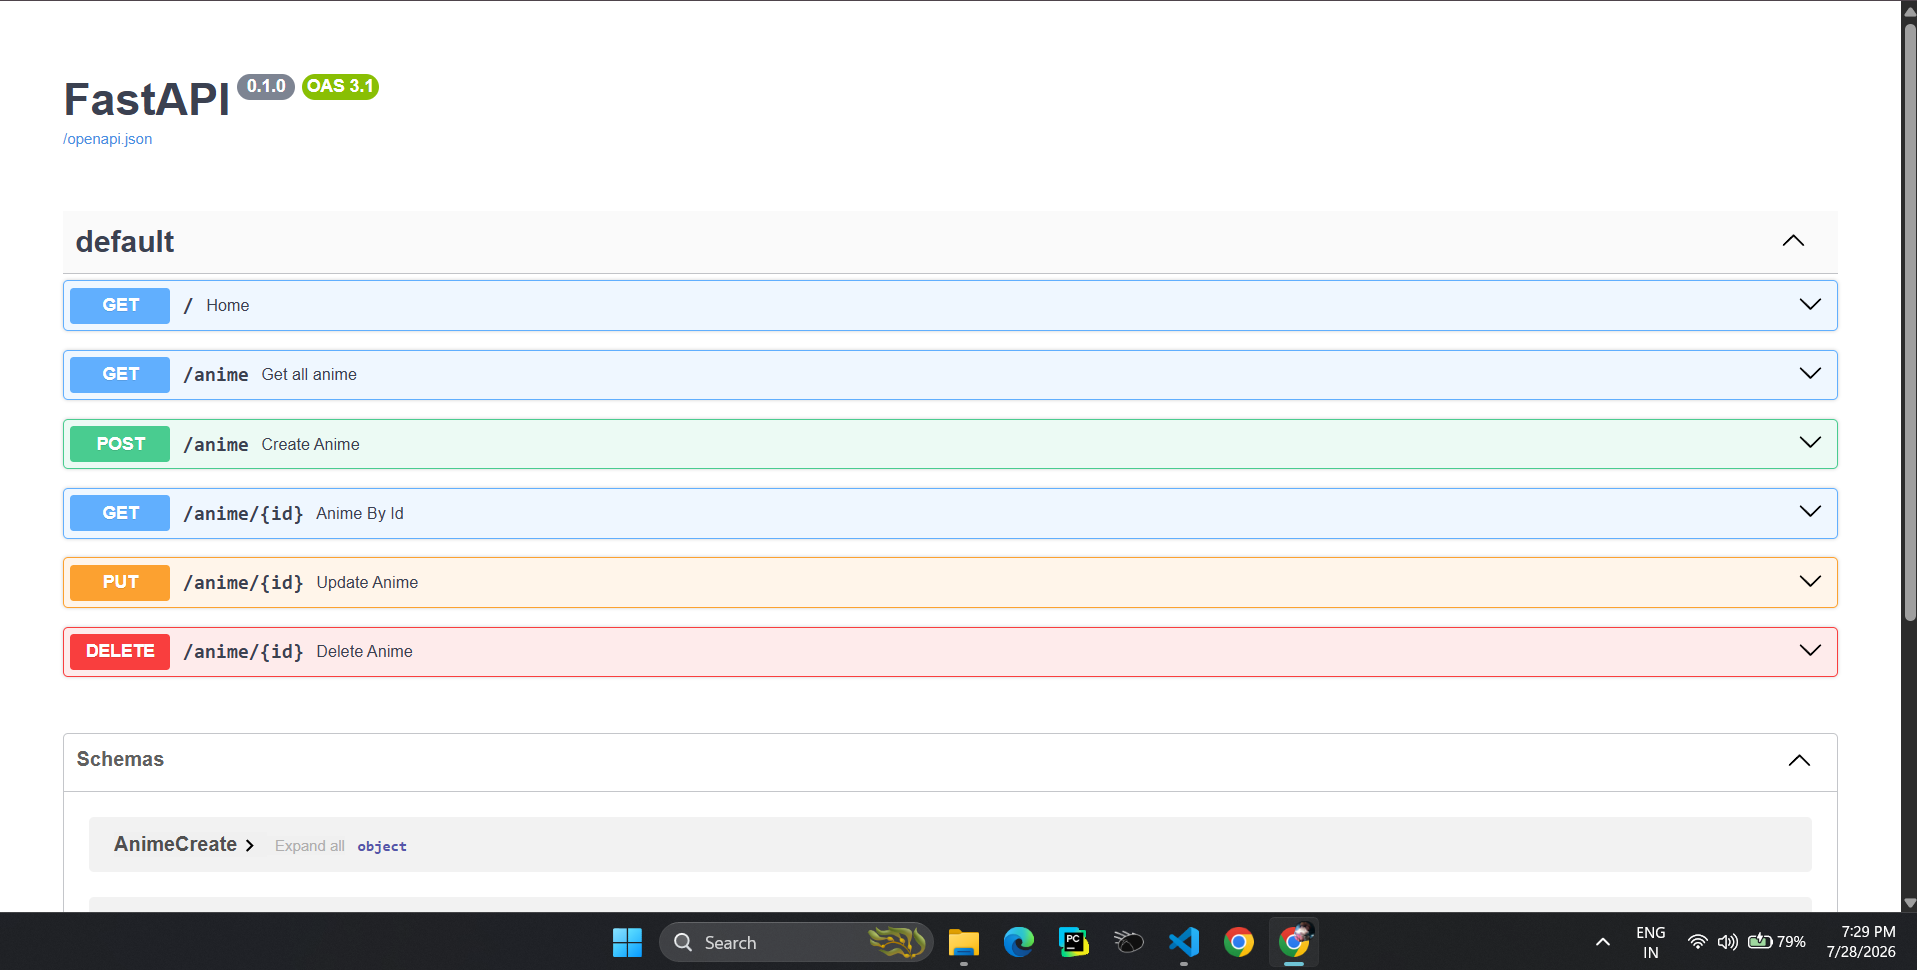
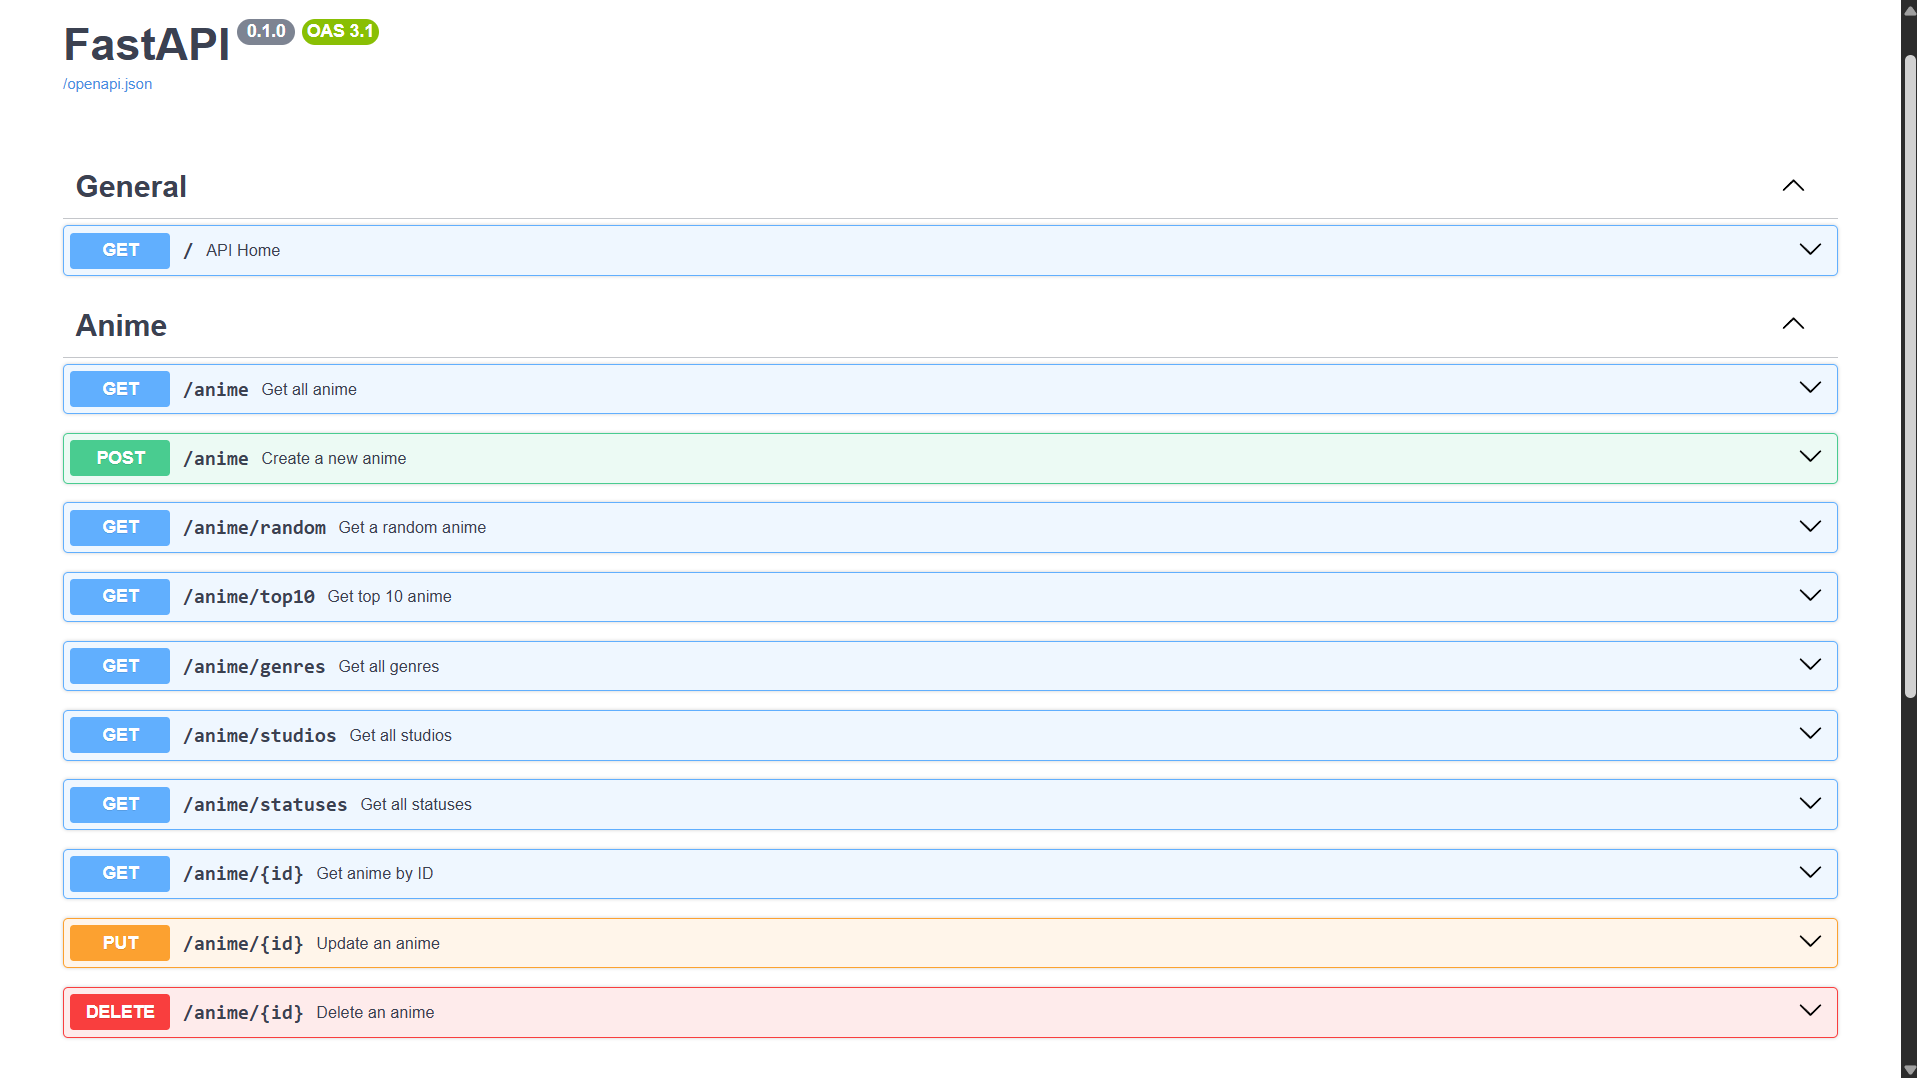
Updated Readme

Changed region(s): [[0.0, 0.0, 1.0, 1.0], [0.9849, 0.0, 1.0, 0.6495], [0.9233, 0.7423, 0.9541, 0.8351]]

diff --git a/README.md b/README.md
@@ -211,7 +211,7 @@ http://127.0.0.1:8000/redoc
 
 FastAPI automatically generates interactive API documentation.
 
-> Add your Swagger UI screenshot here.
+screenshot/swagger_ui.png
 
 ```text
 screenshot/swagger_ui.png
